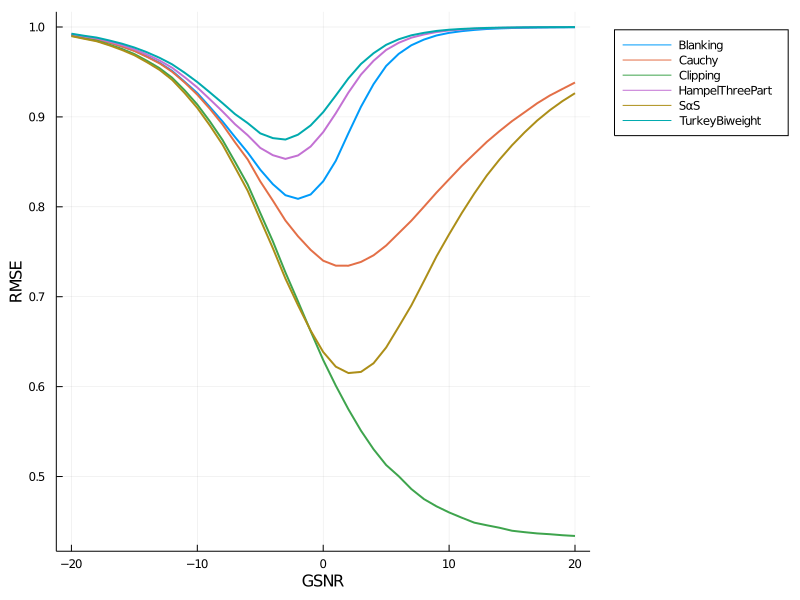
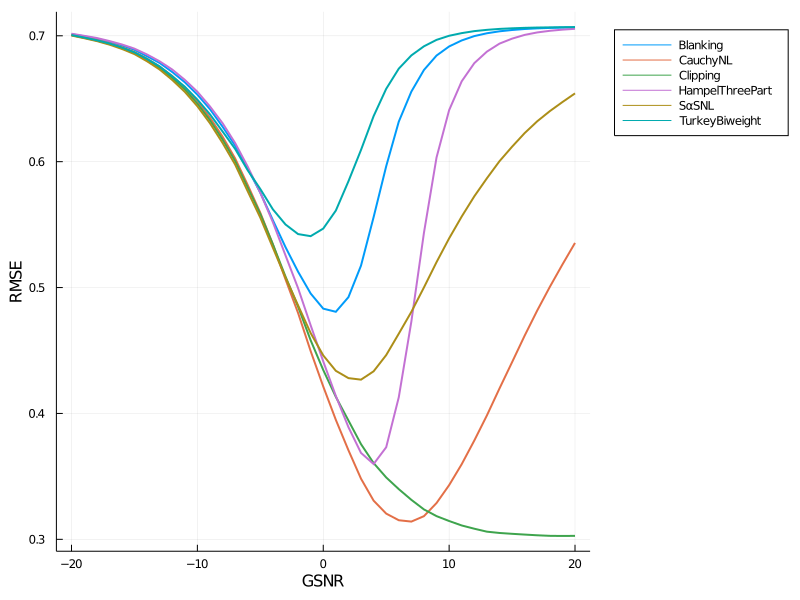
fix(*): better parameters

diff --git a/README.md b/README.md
@@ -75,16 +75,15 @@ plotnonlinearity(x, TurkeyBiweight, ks)
 
 ## Performance
 Chirp signals with Symmetric α-Stable noise parameterized by α=1.5, scale=1.0, location=0.0 are simulated. The following nonlinear functions are applied to the simulated data to filter the noise.
-| Nonlinear       | Parameter                    |
-| --------------- | ---------------------------- |
-| Blanking        | k=3.0                        |
-| CauchyNL        | k=1.0                        |
-| Clipping        | k=1.0                        |
-| HampelThreePart | a=1.0,b=2.0,c=3.0            |
-| SαSNL           | α=1.5,scale=1.0,location=0.0 |
-| TurkeyBiweight  | k=3.0                        |
-
-Root Mean Squared Errors (RMSEs) between the true chirp signals and filtered signals with respect to nonlinear functions and Generalizad Signal-to-Noise Ratios (GSNRs) are as follows. 
+| Nonlinear       | Parameter                 |
+| --------------- | ------------------------- |
+| Blanking        | k=3σ                      |
+| CauchyNL        | k=3σ                      |
+| Clipping        | k=σ                       |
+| HampelThreePart | a=3σ,b=4σ,c=5σ            |
+| SαSNL           | α=α',scale=c',location=δ' |
+| TurkeyBiweight  | k=3σ                      |
+σ is median absolution deviation of the simulated data. a', c' and δ' are the estimated pararamters of IID Symmetric α-Stable distributions based on the simulated data. Root Mean Squared Errors (RMSEs) between the true chirp signals and filtered signals with respect to nonlinear functions and Generalizad Signal-to-Noise Ratios (GSNRs) are as follows. 
 ```julia
 include("perf/simulate.jl")
 
